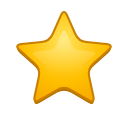
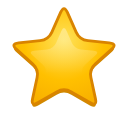
bản 262: sao vàng viền cam đậm, viền trắng mảnh, sao xám đậm hơn, sao xanh như số kinh nghiệm, viền chung .3
Claude-Session: https://claude.ai/code/session_015r7QjvgWpavV7UHFjkKbAg

diff --git a/src/tools/bong/lam.py b/src/tools/bong/lam.py
@@ -41,20 +41,20 @@ def _round(P,k):
         a=(p1[0]+(p0[0]-p1[0])*k, p1[1]+(p0[1]-p1[1])*k); b=(p1[0]+(p2[0]-p1[0])*k, p1[1]+(p2[1]-p1[1])*k)
         d+=('M' if i==0 else 'L')+f'{a[0]:.2f} {a[1]:.2f} Q{p1[0]:.2f} {p1[1]:.2f} {b[0]:.2f} {b[1]:.2f} '
     return d+'Z'
-def sao(c0,c1,c2,vien,bong,trang=False,R=6.4):
+def sao(c0,c1,c2,vien,bong,trang=False,R=6.4,sang='#fffbe0',vw=.22):
     # ngôi sao (bản 258-260): cánh bo tròn, chuyển màu c0 (giữa trên) -> c1 -> c2 (mép), viền mảnh, bóng đáy, mặt bóng;
     # trang: thêm viền trắng dày ngoài cùng (sao đặt trên nền màu)
     k=R/6.4
     D=_round(_spts(R,3.0*k,-0.3),0.22); inner=_round(_spts(4.3*k,2.0*k,-0.1),0.25)
-    w=f'<path d="{D}" fill="#fff" stroke="#fff" stroke-width="1.3" stroke-linejoin="round"/>' if trang else ''
+    w=f'<path d="{D}" fill="#fff" stroke="#fff" stroke-width=".65" stroke-linejoin="round"/>' if trang else ''
     return hinh(f'<defs><radialGradient id="g" cx="0" cy="-2.5" r="8.5" gradientUnits="userSpaceOnUse"><stop offset="0" stop-color="{c0}"/><stop offset=".5" stop-color="{c1}"/><stop offset="1" stop-color="{c2}"/></radialGradient>'
-        '<linearGradient id="h" x1="0" y1="-5" x2="0" y2="1" gradientUnits="userSpaceOnUse"><stop offset="0" stop-color="#fffbe0" stop-opacity=".95"/><stop offset="1" stop-color="#fffbe0" stop-opacity="0"/></linearGradient></defs>'
-        + w + f'<path d="{D}" fill="{bong}" transform="translate(0 .3)"/><path d="{D}" fill="url(#g)" stroke="{vien}" stroke-width=".22" stroke-linejoin="round"/><path d="{inner}" fill="url(#h)" opacity=".55"/>')
-SAO={
- 'sao': sao('#ffe25a','#ffc000','#f29b00','#c97f00','#b87200'),            # vàng đậm (bản 260)
- 'sao_vien': sao('#ffe25a','#ffc000','#f29b00','#c97f00','#b87200',True,5.6),
- 'sao_xam': sao('#f4ecd6','#e6dabb','#d6c69e','#bfae84','#b3a27a'),       # sao chưa đạt
- 'sao_xanh': sao('#bfe2ff','#4aa0f0','#2a78d0','#1f5fae','#1a52a0',True,5.6),
+        f'<linearGradient id="h" x1="0" y1="-5" x2="0" y2="1" gradientUnits="userSpaceOnUse"><stop offset="0" stop-color="{sang}" stop-opacity=".95"/><stop offset="1" stop-color="{sang}" stop-opacity="0"/></linearGradient></defs>'
+        + w + f'<path d="{D}" fill="{bong}" transform="translate(0 .3)"/><path d="{D}" fill="url(#g)" stroke="{vien}" stroke-width="{vw}" stroke-linejoin="round"/><path d="{inner}" fill="url(#h)" opacity=".55"/>')
+SAO={   # bản 262: viền chung .3; vàng viền cam đậm (đứng được trên nền cam), xám đậm hơn, xanh như số kinh nghiệm
+ 'sao': sao('#ffe25a','#ffc000','#f5a800','#d98400','#d08a00',vw=.3),
+ 'sao_vien': sao('#ffe25a','#ffc000','#f5a800','#d98400','#d08a00',True,6.0,vw=.3),
+ 'sao_xam': sao('#ece2c6','#d9c9a0','#c8b384','#a8925f','#b09c70',vw=.3),
+ 'sao_xanh': sao('#9fd0ff','#3d8ef0','#2a6fd6','#174fa8','#1a4f9c',False,6.4,'#e4f2ff',.3),
 }
 F={
  'vong': vong(),
